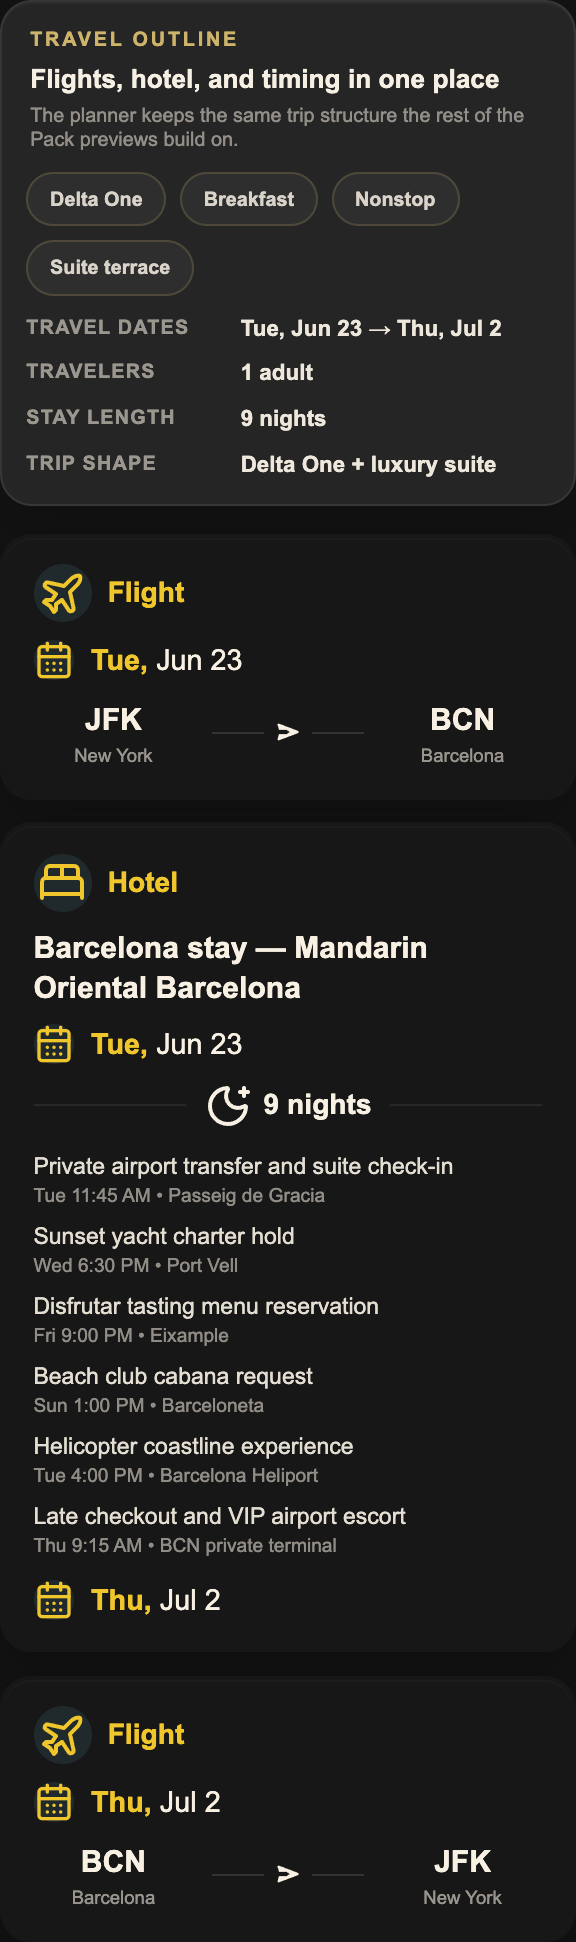
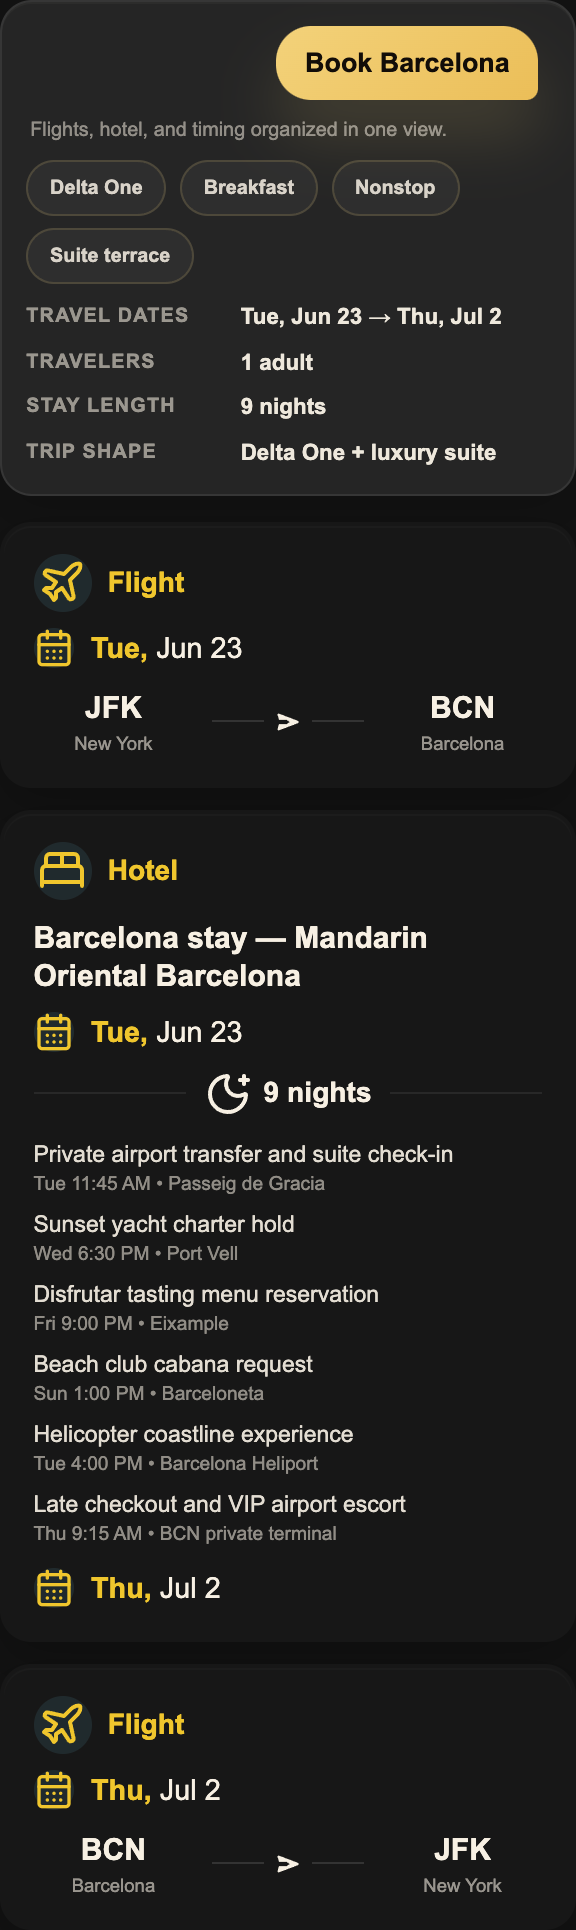
Refresh PackWebsite outline hero captures

diff --git a/src/components/Hero.tsx b/src/components/Hero.tsx
@@ -63,8 +63,8 @@ import type {
 const heroJourneyStillAssets = {
   outline: {
     src: "/images/hero-captures/plan-still.png?v=2026-04-20-4",
-    width: 798,
-    height: 1510,
+    width: 738,
+    height: 1824,
   },
   search: {
     src: "/images/hero-captures/search-still.png?v=2026-04-14-1",
@@ -87,7 +87,7 @@ const heroJourneyMobileStillAssets = {
   outline: {
     src: "/images/hero-captures/plan-mobile.png?v=2026-04-20-4",
     width: 576,
-    height: 2086,
+    height: 1930,
   },
   search: {
     src: "/images/hero-captures/search-mobile.png?v=2026-04-19-1",